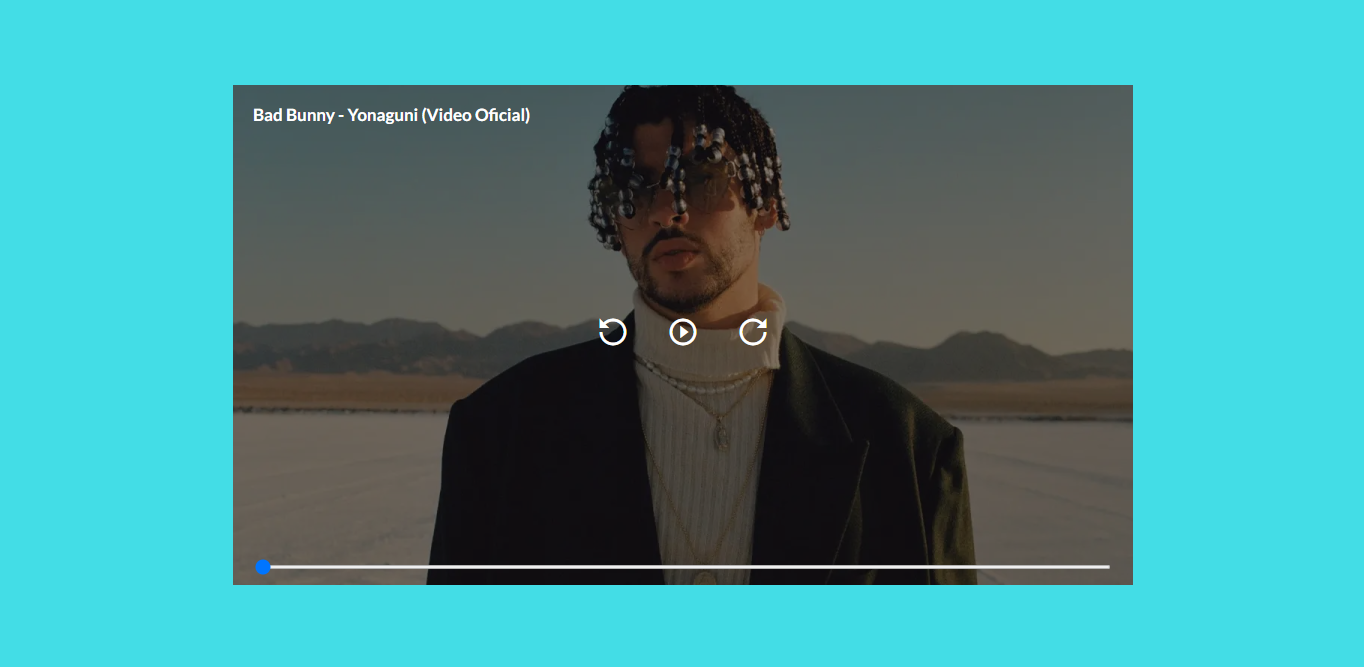
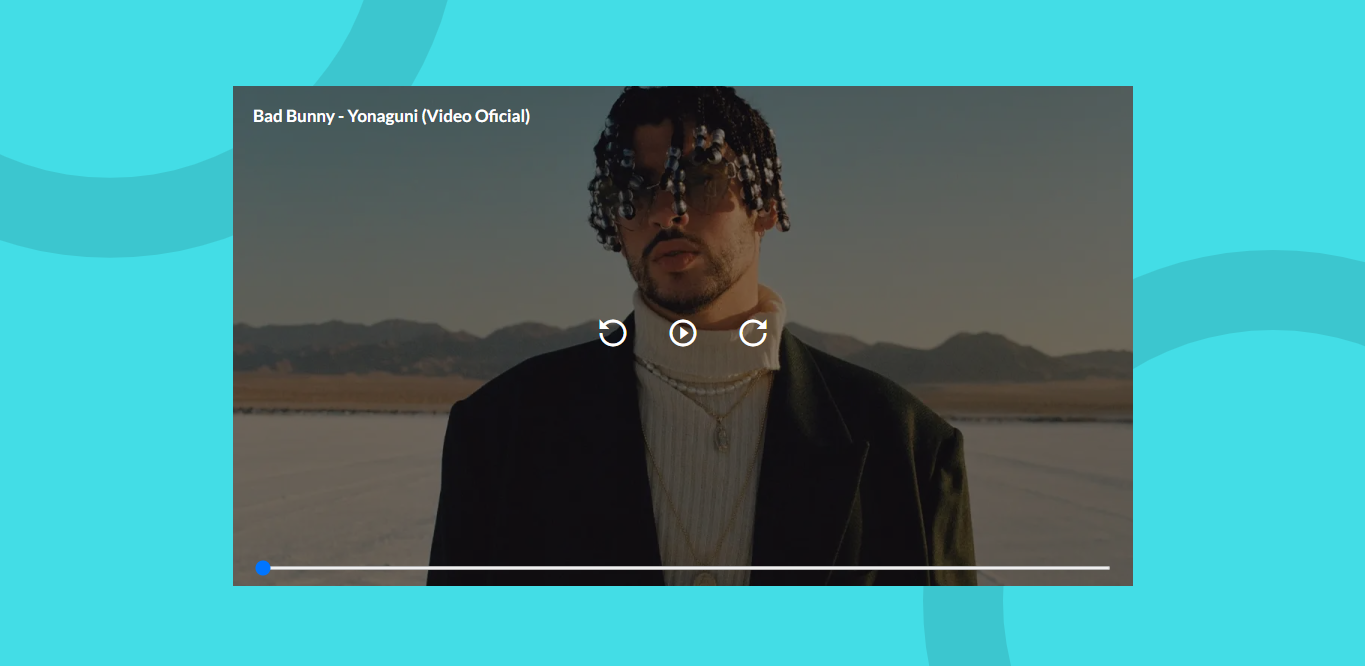
Background created

diff --git a/css/main.css b/css/main.css
@@ -7,7 +7,11 @@
 
 .body {
 	align-items: center;
-	background: var(--aqua);
+	background: url('../assets/icons/circle-2.svg'),
+		url('../assets/icons/circle-1.svg'), var(--aqua);
+	background-position: top left, bottom right, bottom right;
+	background-repeat: no-repeat;
+	background-size: 50%, 50%;
 	display: flex;
 	height: 100vh;
 	justify-content: center;
@@ -28,5 +32,14 @@
 		--white: #ffffff;
 		--fontBase: 'Lato', sans-serif;
 		--normal: 700 17px/1.275rem var(--fontBase);
+	}
+	.body {
+		background-size: auto, auto;
+	}
+}
+
+@media screen and (min-width: 1700px) {
+	.body {
+		background-size: 35%, 35%;
 	}
 }
